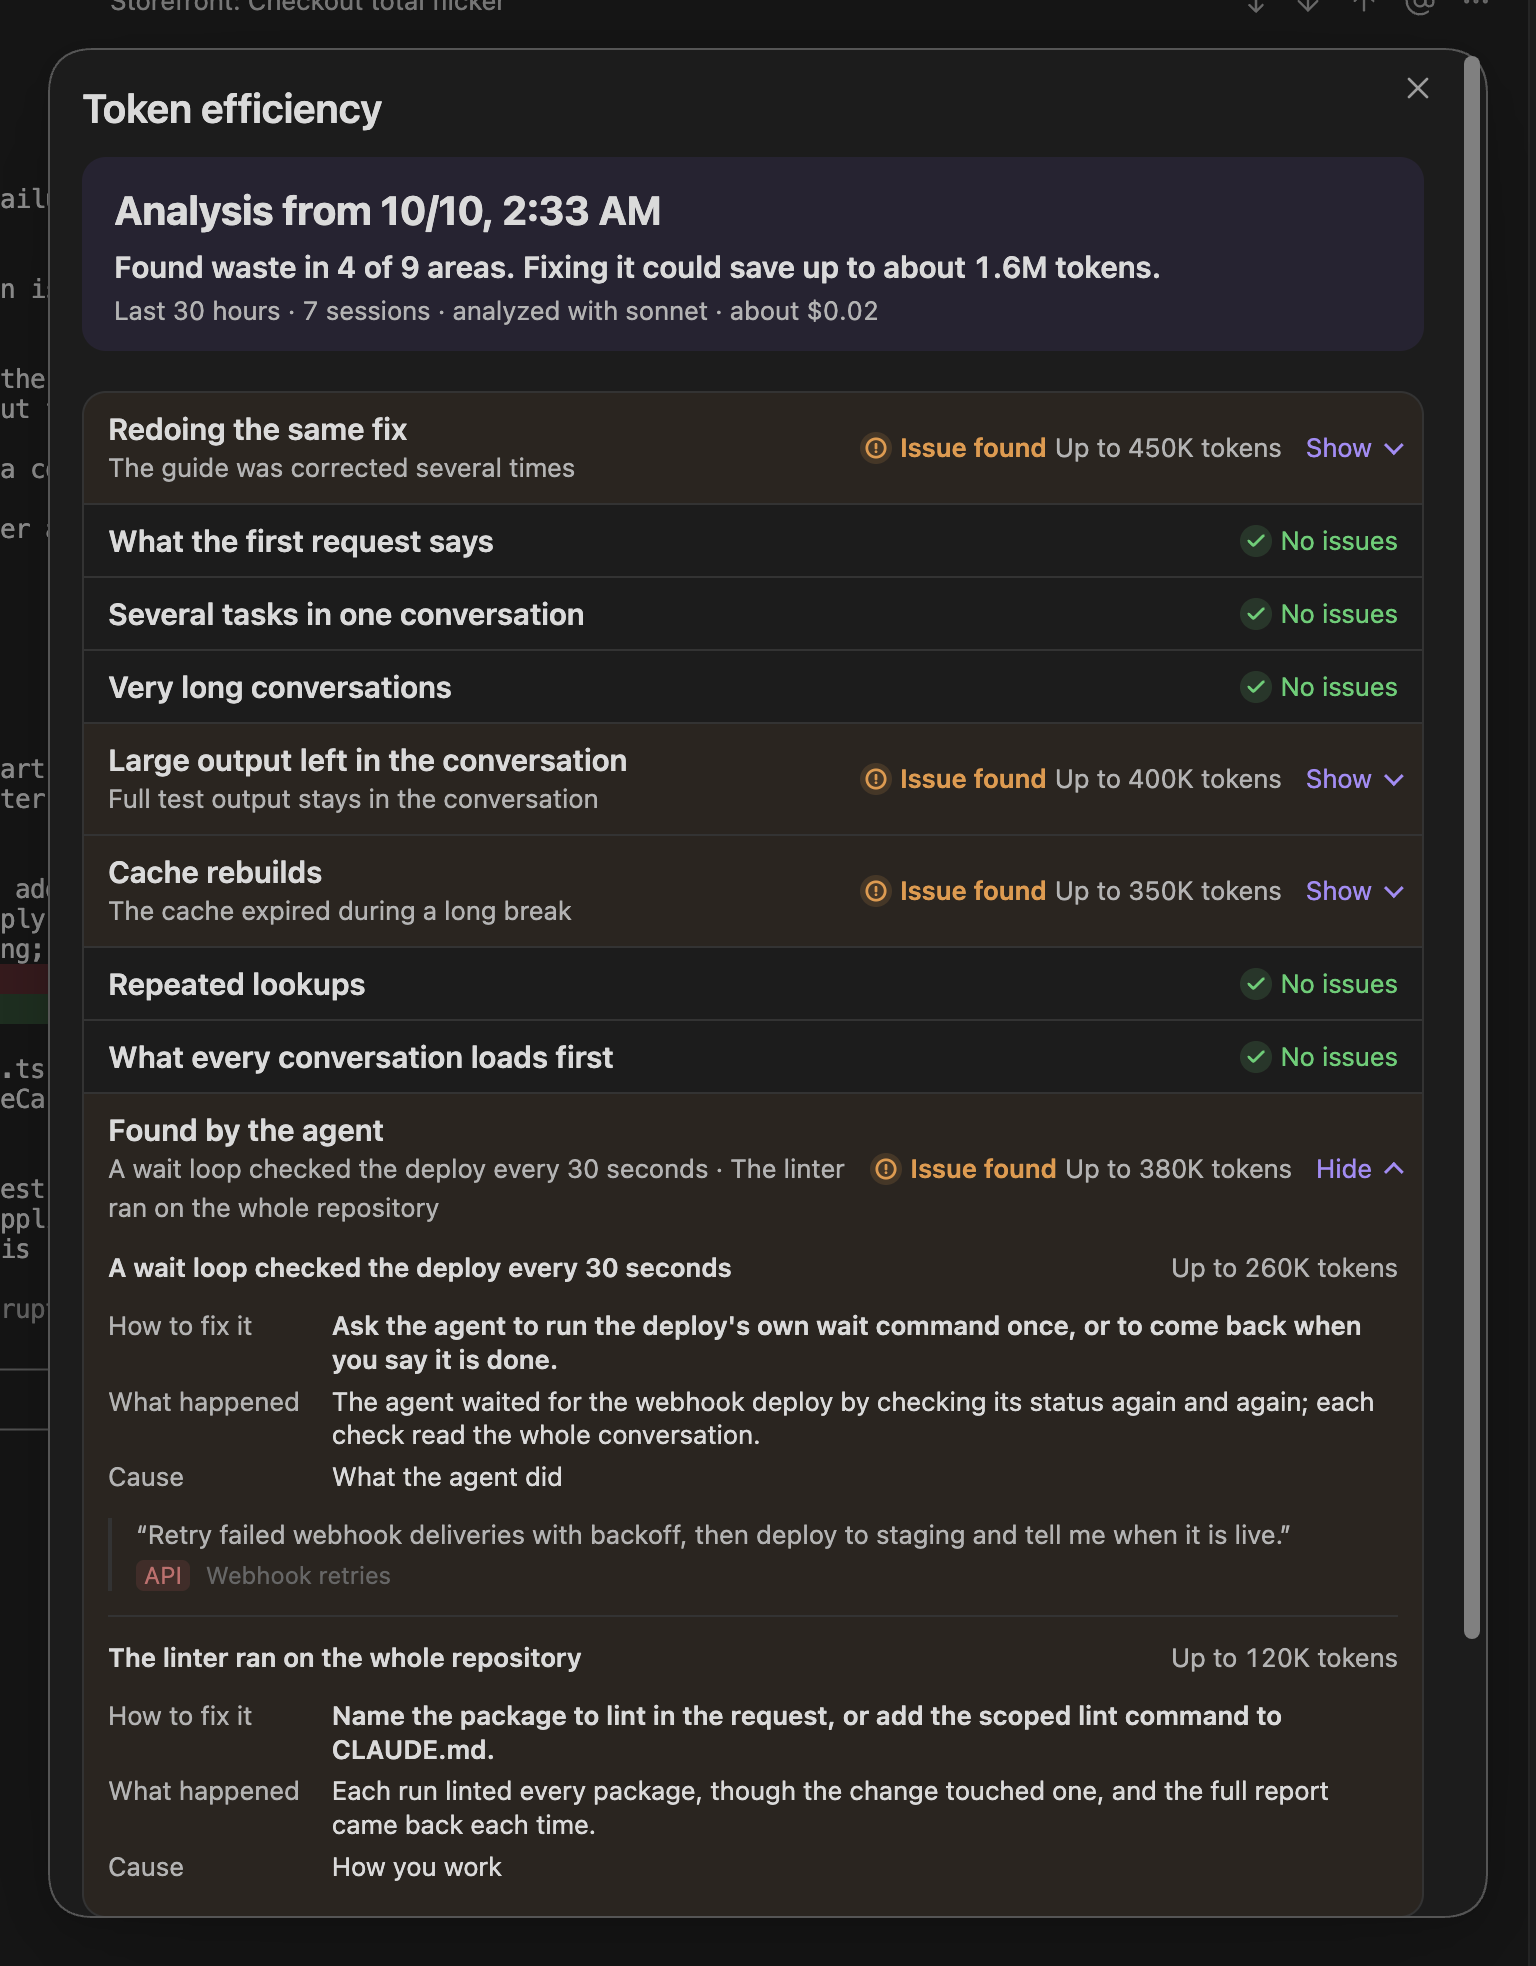
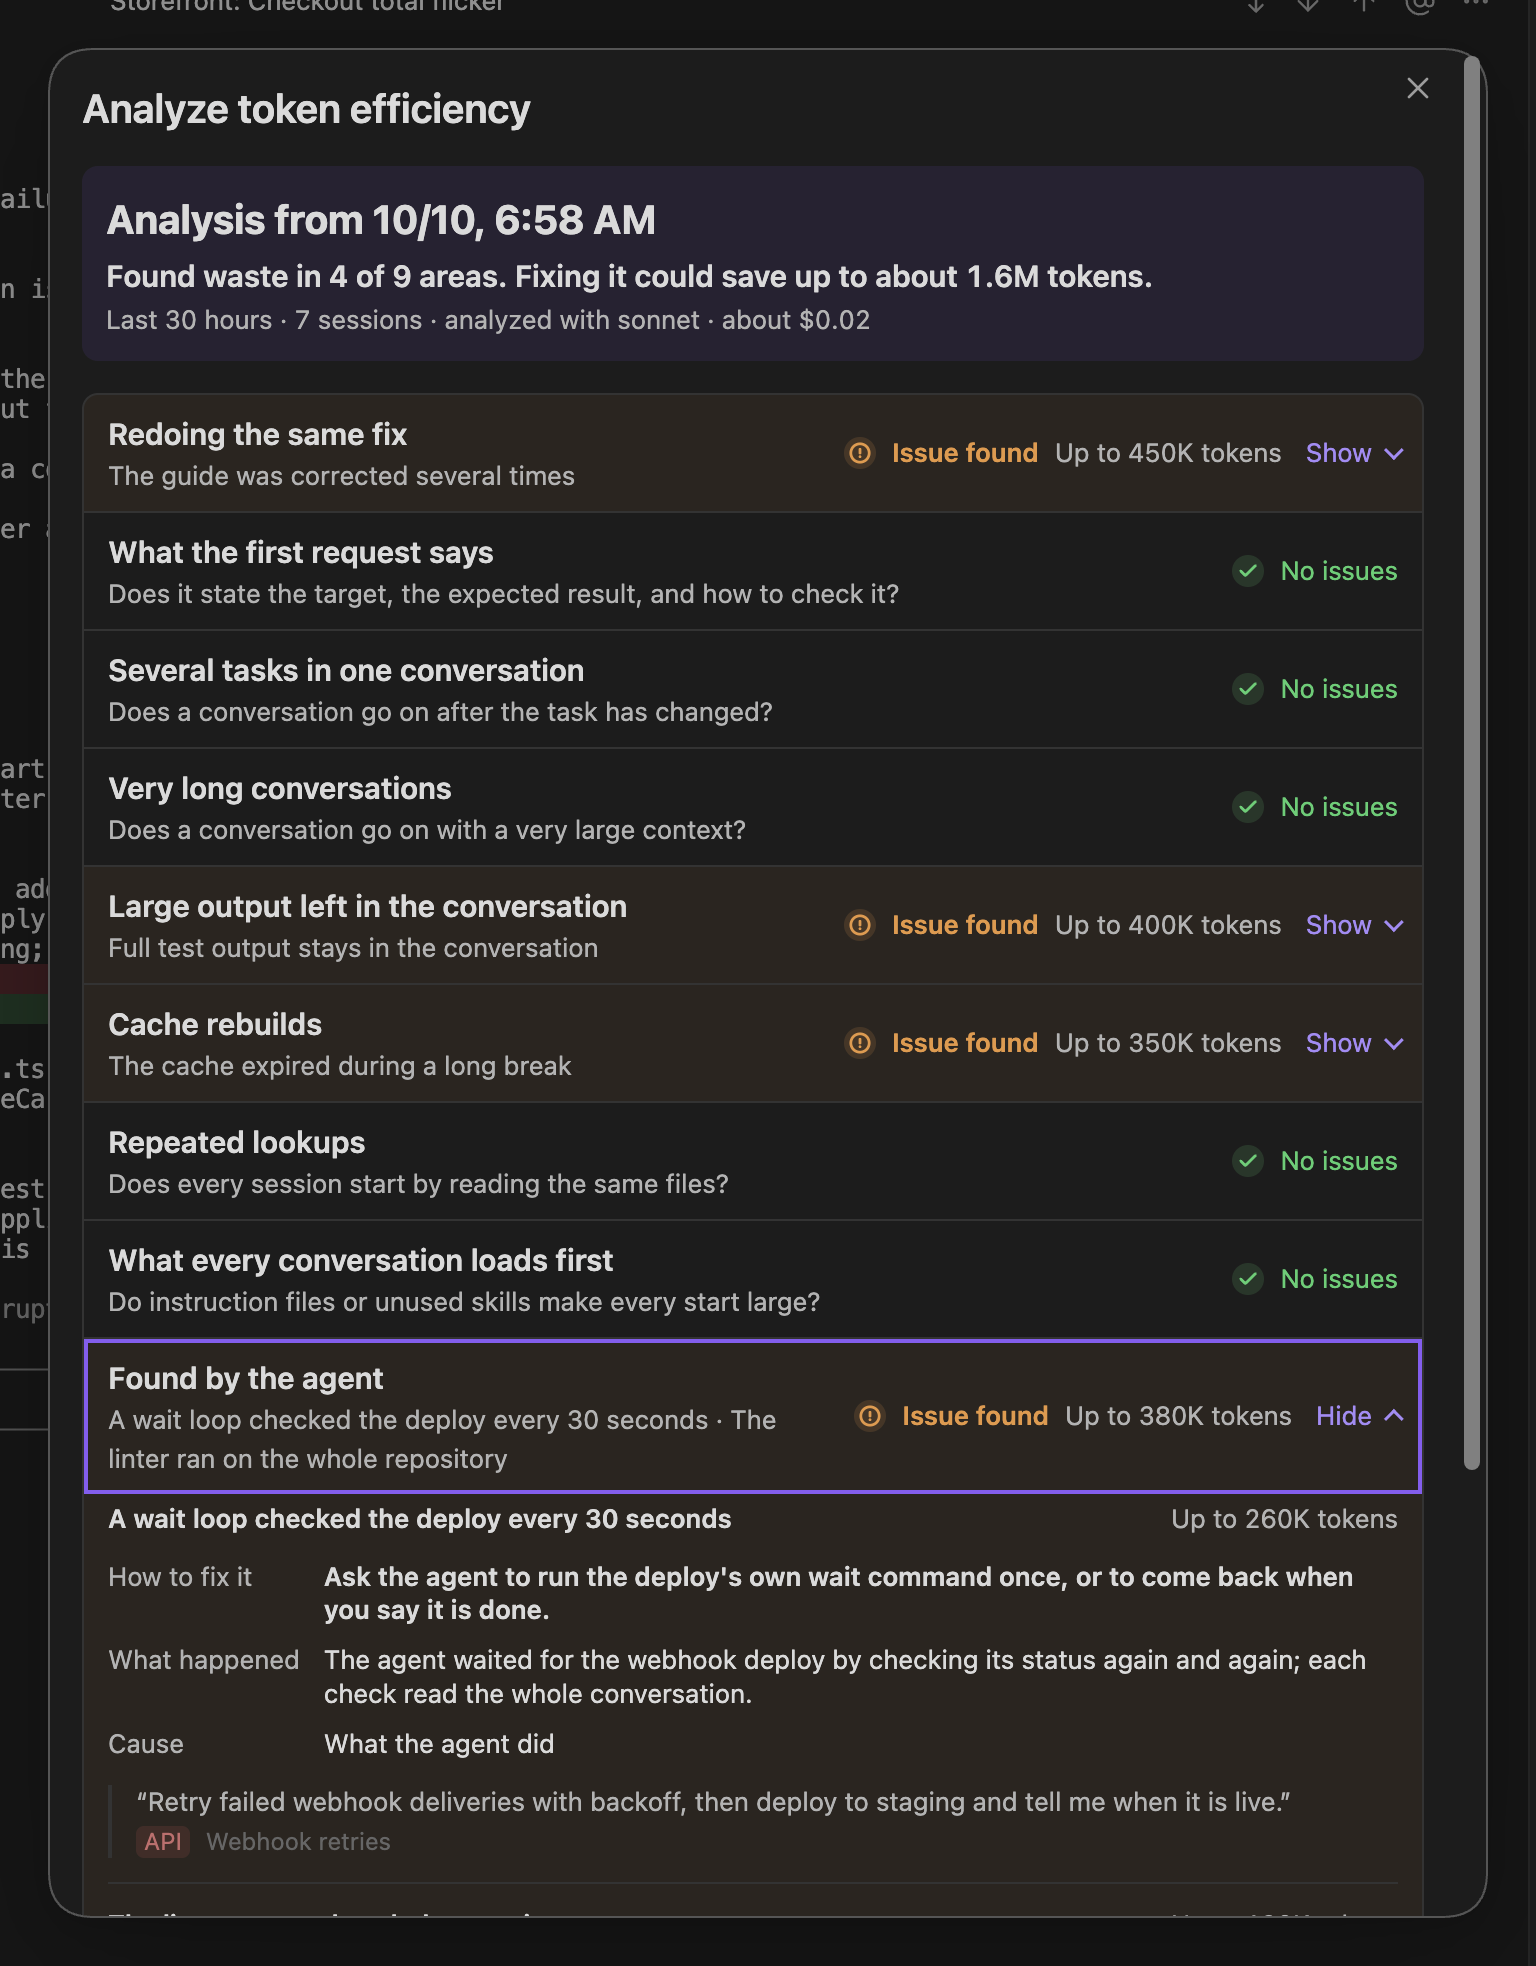
Shoot every dialog state and refresh the images that show dialogs
--efficiency also shoots an open issue, the data behind the analysis, the
fixing dialog and a narrow window; --dialogs adds suggest, new session
and organize. The README's token efficiency images and the welcome
guide's dialog scenes show the new titles and spacing.

Claude-Session: https://claude.ai/code/session_01TTRFsyBXjNS4ZGqFbyUZrn

diff --git a/tools/screenshots/README.md b/tools/screenshots/README.md
@@ -41,7 +41,7 @@ SCRATCH=$(mktemp -d)
 node tools/screenshots/shoot.mjs --plugin-js $SCRATCH/main.js   # add --keep to leave the sandbox behind
 ```
 
-`--efficiency` shoots only the token efficiency dialog, in the dark and the light theme: `efficiency-empty-<theme>.png` (not analysed yet), `efficiency-analyzing-<theme>.png` (one request, every check being analysed), `efficiency-result-<theme>.png` (the result just made, the agent's own issues open), `efficiency-previous-<theme>.png` (the saved result opened again a day later) and `efficiency-analyzing-split-<theme>.png` (a larger range sent in several requests, after the first one is read). `--out DIR` writes the README set to DIR (DIR/ja for Japanese) instead of `docs/images/`; use it for images the README does not show:
+`--efficiency` shoots only the token efficiency dialog, in the dark and the light theme: `efficiency-empty-<theme>.png` (not analysed yet), `efficiency-analyzing-<theme>.png` (one request, every check being analysed), `efficiency-result-<theme>.png` (the result just made, the agent's own issues open), `efficiency-previous-<theme>.png` (the saved result opened again a day later) `efficiency-analyzing-split-<theme>.png` (a larger range sent in several requests, after the first one is read), `efficiency-issue-<theme>.png` (the first issue open), `efficiency-basis-<theme>.png` (the data behind the analysis open), `efficiency-fix-<theme>.png` (the dialog before a fixing session) and `efficiency-narrow-<theme>.png` (a window about 440 px wide). `--dialogs` shoots the other dialogs the same way: rename, move to category, change model, end session, suggest name and category, session analytics, a narrow move to category, new session and organize (`dialog-<name>-<theme>.png`). `--out DIR` writes the README set to DIR (DIR/ja for Japanese) instead of `docs/images/`; use it for images the README does not show:
 
 ```sh
 node tools/screenshots/shoot.mjs --efficiency --out "$SCRATCH/shots" --plugin-js $SCRATCH/main.js
